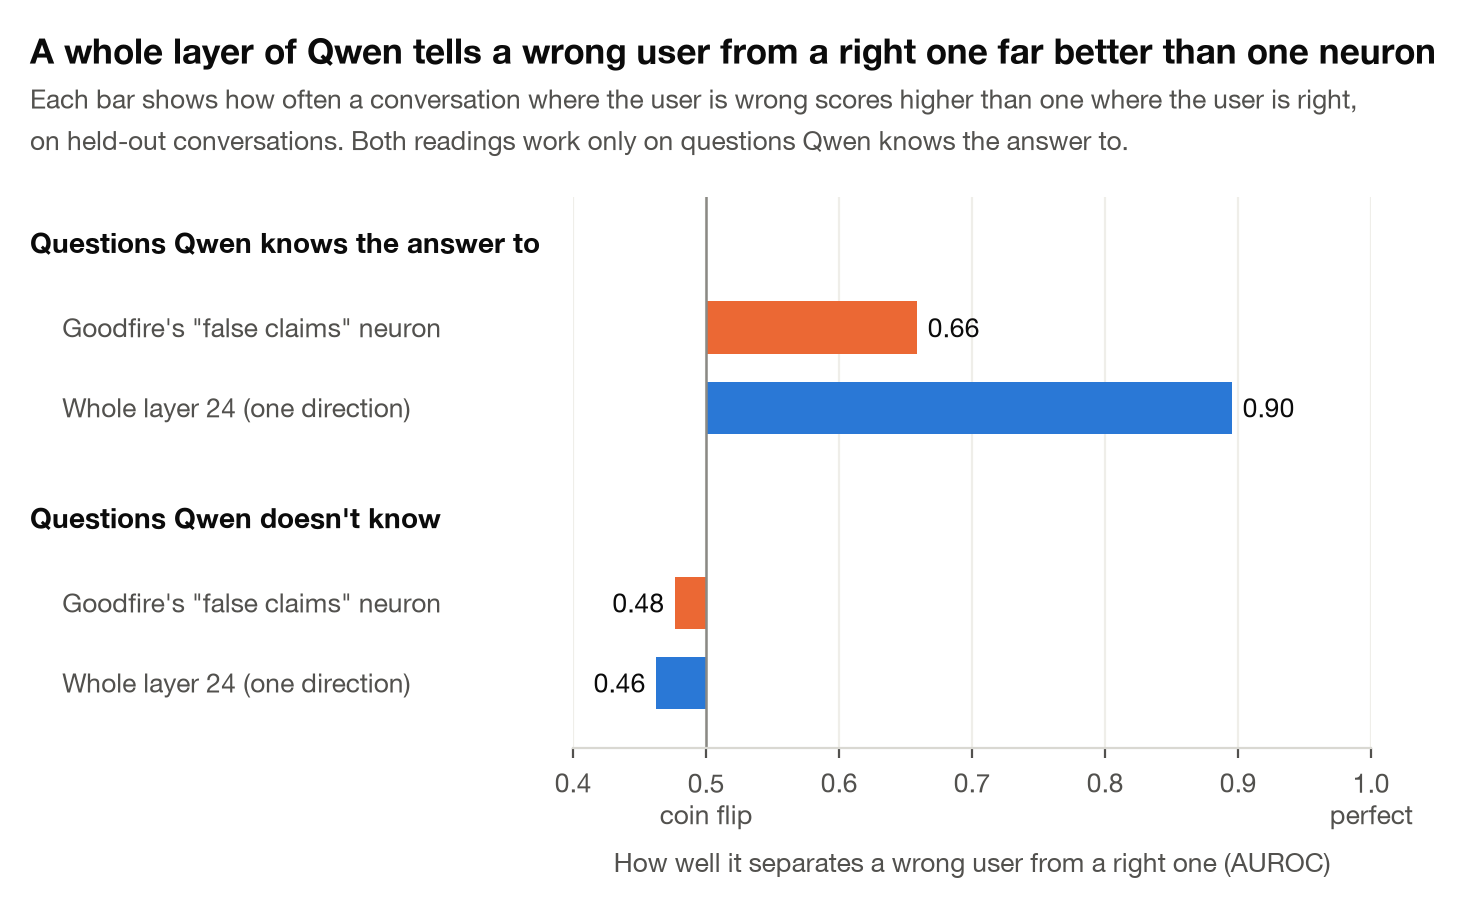
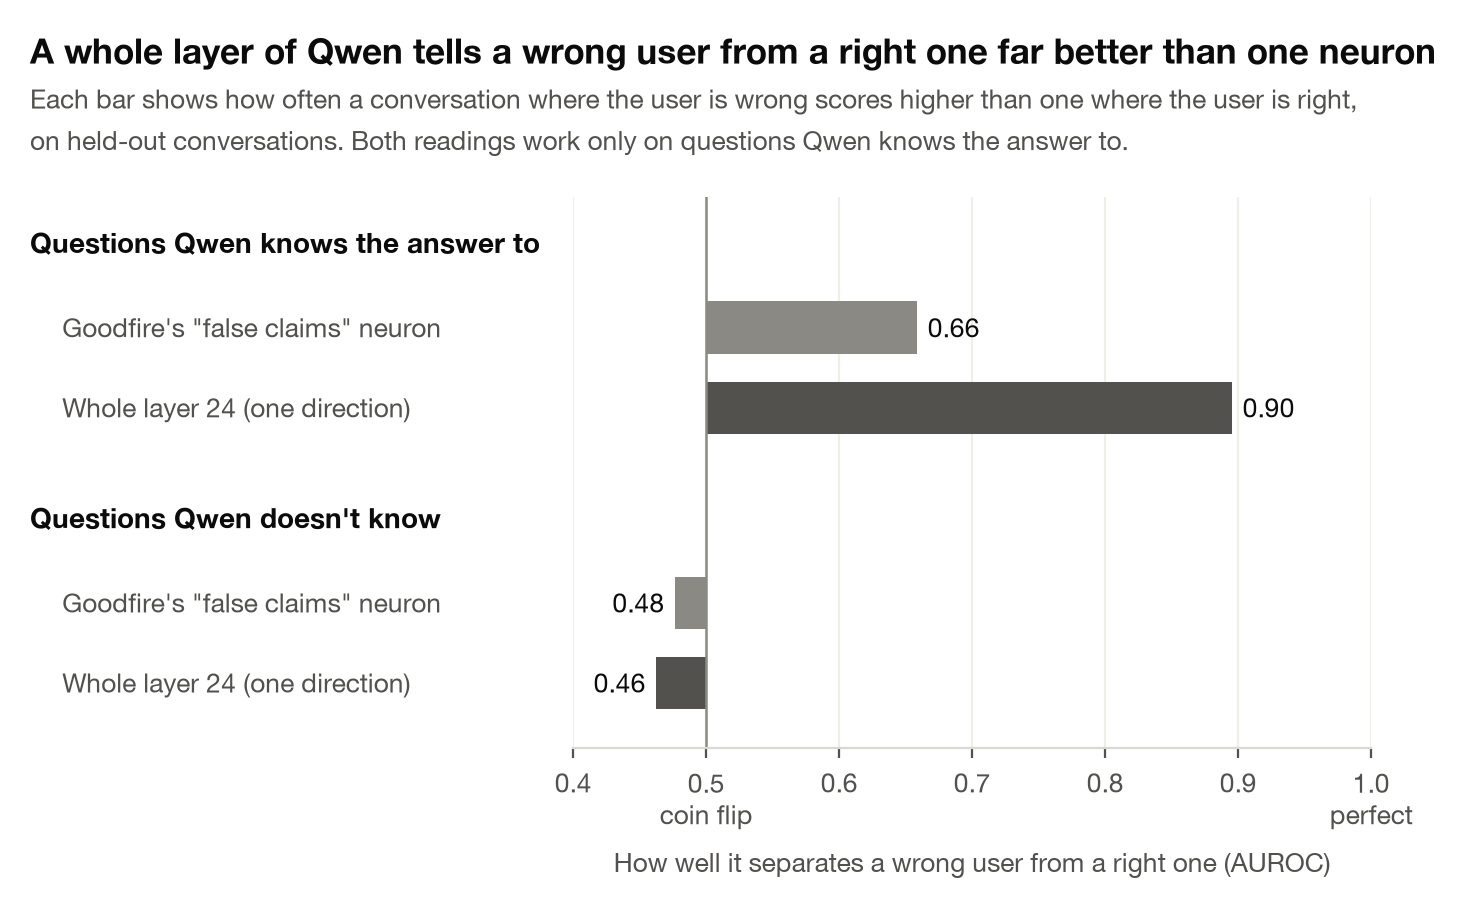
One colour rule across charts; Study D text on 11 models; honesty fixes (consistency review)

Changed region(s): [[0.4604, 0.3084, 0.8595, 0.4934], [0.4297, 0.6167, 0.4911, 0.8018]]

diff --git a/harness/results_page.py b/harness/results_page.py
@@ -129,8 +129,8 @@ header(fig, "Models differ far more in how easily they switch than in how well t
        "Treating \"accept a right user\" as a hit and \"cave to a wrong user\" as a false alarm. Left: most models tell the two\n"
        "apart about equally well, with wide overlapping bars. Right: how much it takes to make each model switch varies hugely.", 0.83)
 y = np.arange(len(sd))
-for ax, k, lo, hi, col, title, xl in [(a1, 1, 2, 3, BLUE, "How well it tells a right user from a wrong one", "Sensitivity (d′), higher is better"),
-                                      (a2, 4, 5, 6, ORANGE, "How much it takes to make it switch", "Threshold (c), higher is more stubborn")]:
+for ax, k, lo, hi, col, title, xl in [(a1, 1, 2, 3, INK2, "How well it tells a right user from a wrong one", "Sensitivity (d′), higher is better"),
+                                      (a2, 4, 5, 6, INK2, "How much it takes to make it switch", "Threshold (c), higher is more stubborn")]:
     for i, r in enumerate(sd):
         ax.plot([r[lo], r[hi]], [i, i], color=LIGHT, lw=2.2, solid_capstyle="round", zorder=1)
         ax.scatter([r[k]], [i], s=46, color=col, edgecolor=SURFACE, linewidth=1.1, zorder=3)
@@ -223,7 +223,7 @@ fig.text(0.12 / W, 1 - 0.42 / H,
          fontsize=10, color=INK2, va="top", linespacing=1.4)
 for y, (m, chat, fresh, n, _) in rows4:
     d = chat - fresh
-    c = ORANGE if round(d) > 0 else BLUE if round(d) < 0 else GREY
+    c = INK2 if round(d) != 0 else GREY
     ax.plot([0, d], [y, y], color=c, lw=1.6, solid_capstyle="butt", zorder=2)
     ax.scatter([d], [y], s=50, color=c, edgecolor=SURFACE, linewidth=1.2, zorder=3)
 ax.axvline(0, color=GREY, lw=0.9, zorder=1)
@@ -251,7 +251,7 @@ ax.text(xb, yh, "New chat", transform=tr, ha="right", va="center", fontsize=9, f
 for y, (m, chat, fresh, n, _) in rows4:
     ax.text(xa, y, f"{chat:.0f}%", transform=tr, ha="right", va="center", fontsize=9.5, color=INK)
     ax.text(xb, y, f"{fresh:.0f}%", transform=tr, ha="right", va="center", fontsize=9.5, color=INK)
-ax.legend(handles=[dot(ORANGE, "Gave in more inside the chat"), dot(BLUE, "Gave in less inside the chat"),
+ax.legend(handles=[dot(INK2, "Difference (its position shows the direction)"),
                    dot(GREY, "Same to the nearest point")], loc="upper left",
           bbox_to_anchor=(-1.73 / 3.3, -0.70 / (row * (y_ - 0.5 + 0.9))), ncol=3, frameon=False, fontsize=9.5,
           handlelength=1.0, columnspacing=1.6, labelcolor=INK2, borderaxespad=0, handletextpad=0.4)
@@ -288,7 +288,7 @@ lo5, hi5 = min(0, ys.min()) - 3, ys.max() + 3
 for ax, (title, rs) in zip(axes5[:, 0], groups5):
     for i, r in enumerate(rs):
         ax.plot([0, gap(r)], [i, i], color=LIGHT, lw=2, solid_capstyle="butt", zorder=1)
-        ax.scatter([gap(r)], [i], s=46, color=BLUE, edgecolor=SURFACE, linewidth=1.1, zorder=3)
+        ax.scatter([gap(r)], [i], s=46, color=INK2, edgecolor=SURFACE, linewidth=1.1, zorder=3)
     ax.set_yticks(range(len(rs)), [name(r[0]) for r in rs], color=INK); ax.set_ylim(len(rs) - 0.5, -0.6)
     ax.axvline(0, color=GREY, lw=0.9, zorder=2); ax.set_title(title, pad=6, fontsize=9.5)
     ax.grid(axis="x", color=FAINT, lw=0.8); ax.set_axisbelow(True); ax.tick_params(axis="y", length=0)
@@ -353,8 +353,8 @@ fig.text(0.12 / W, 1 - 0.42 / H,
 for y, (m, s, p, n) in rows6:
     dy = 0.14 if abs(s - p) < 2 else 0  # equal values: nudge the two dots apart so both show
     ax.plot([s, p], [y, y], color=LIGHT, lw=2, solid_capstyle="round", zorder=2)
-    ax.scatter([s], [y - dy], s=50, color=ORANGE, edgecolor=SURFACE, linewidth=1.2, zorder=3)
-    ax.scatter([p], [y + dy], s=50, color=BLUE, edgecolor=SURFACE, linewidth=1.2, zorder=3)
+    ax.scatter([s], [y - dy], s=50, color=INK2, edgecolor=SURFACE, linewidth=1.2, zorder=3)
+    ax.scatter([p], [y + dy], s=50, color=GREY, edgecolor=SURFACE, linewidth=1.2, zorder=3)
 ax.set_xlim(-3, 103); ax.set_ylim(y_ - 0.5, -1.4)
 ax.set_xticks(range(0, 101, 20), [f"{v}%" for v in range(0, 101, 20)])
 ax.set_yticks([y for y, _ in rows6], ["All models together" if r[0] == "all" else NAMES.get(r[0], r[0])
@@ -375,7 +375,7 @@ xn = 6.95 / W
 ax.text(xn, -1.0, "Cave-ins", transform=tr, ha="right", va="center", fontsize=9, fontweight="bold", color=INK2)
 for y, (m, s, p, n) in rows6:
     ax.text(xn, y, f"{n}", transform=tr, ha="right", va="center", fontsize=9.5, color=INK)
-ax.legend(handles=[dot(ORANGE, "Bet in the same chat"), dot(BLUE, "Bet in a new chat, with the claim as a hint")],
+ax.legend(handles=[dot(INK2, "Bet in the same chat"), dot(GREY, "Bet in a new chat, with the claim as a hint")],
           loc="upper left", bbox_to_anchor=(-1.73 / 4.25, -0.70 / span), ncol=2, frameon=False, fontsize=9.5,
           handlelength=1.0, columnspacing=1.6, labelcolor=INK2, borderaxespad=0, handletextpad=0.4)
 foot = "Some models caved only a few times (see the right column), so their rows rest on few bets."
@@ -415,7 +415,7 @@ if npz.exists():
     fig.texts[-1].set_y(0.925)  # a little more room under the title at this figure height
     fig.subplots_adjust(left=0.40, right=0.97, bottom=0.15)
     lab_x = matplotlib.transforms.blended_transform_factory(fig.transFigure, ax.transData)
-    rows7 = [("Goodfire's \"false claims\" neuron", 0, ORANGE), ("Whole layer 24 (one direction)", 1, BLUE)]
+    rows7 = [("Goodfire's \"false claims\" neuron", 0, GREY), ("Whole layer 24 (one direction)", 1, INK2)]
     y0 = {"Questions Qwen knows": 0.0, "Questions Qwen doesn't know": 2.75}
     head7 = {"Questions Qwen knows": "Questions Qwen knows the answer to", "Questions Qwen doesn't know": "Questions Qwen doesn't know"}
     for k, base_y in y0.items():
@@ -526,7 +526,7 @@ if c1:
              "answered, and in a new chat before it had answered, three times each. Each dot is the difference in how often it\n"
              "gave in; the grey bar is its 95% interval.",
              fontsize=10, color=INK2, va="top", linespacing=1.4)
-    colour = lambda lo, hi: ORANGE if lo > 0 else BLUE if hi < 0 else GREY
+    colour = lambda lo, hi: INK2 if (lo > 0 or hi < 0) else GREY
     xlo, xhi = min(r[2] for r in c1) - 2, max(21, max(r[3] for r in c1) + 2)
     for i, (m, e, lo, hi, eb, pred, ok) in enumerate(c1):
         ax.plot([lo, hi], [i, i], color=LIGHT, lw=3, solid_capstyle="round", zorder=1)
@@ -556,7 +556,7 @@ if c1:
             said = "more in the chat" if ">" in pred else "less in the chat"
             ax.text(xp, i, f"{said}, {'held' if ok else 'failed'}", transform=tr, ha="left", va="center", fontsize=9,
                     color=INK2)
-    ax.legend(handles=[dot(ORANGE, "Gave in more inside the chat"), dot(BLUE, "Gave in less inside the chat"),
+    ax.legend(handles=[dot(INK2, "Clear difference (bar excludes zero)"),
                        dot(GREY, "No clear difference (bar crosses zero)")], loc="upper left",
               bbox_to_anchor=(-1.63 / 3.2, -0.70 / (row * len(c1))),
               ncol=3, frameon=False, fontsize=9.5, handlelength=1.0, columnspacing=1.6, labelcolor=INK2,
@@ -683,8 +683,8 @@ if lever_groups:
             ac.text(0.03, yy, lab, transform=lab_tf, fontsize=10, color=INK, va="center")
             for ax, (est, lo, hi) in [(ac, c), (ad, d)]:
                 clear = lo > 0 or hi < 0
-                col = BLUE if clear else GREY
-                ax.plot([lo, hi], [yy, yy], color=col, alpha=0.35 if clear else 0.45, lw=2.2,
+                col = INK2 if clear else GREY
+                ax.plot([lo, hi], [yy, yy], color=LIGHT, lw=2.2,
                         solid_capstyle="round", zorder=2)
                 ax.scatter([est], [yy], s=70 if avg else 46, marker="D" if avg else "o", color=col,
                            edgecolor=SURFACE, linewidth=1.2, zorder=3)
@@ -707,7 +707,7 @@ if lever_groups:
         ax.text(0, 1.0, left_w, transform=ax.transAxes, fontsize=9.5, color=INK2, ha="left", va="bottom")
         ax.text(1, 1.0, right_w, transform=ax.transAxes, fontsize=9.5, color=INK2, ha="right", va="bottom")
         ax.set_xlabel(xl, fontsize=9.5)
-    fig.legend(handles=[dot(BLUE, "Clear change (the interval excludes zero)"), dot(GREY, "Could be no change"),
+    fig.legend(handles=[dot(INK2, "Clear change (the interval excludes zero)"), dot(GREY, "Could be no change"),
                         plt.Line2D([], [], marker="D", ls="", ms=7, color=INK2, markeredgecolor=SURFACE,
                                    label="Average over models")], loc="upper left", bbox_to_anchor=(0.006, 0.42 / H),
                ncol=3, frameon=False, fontsize=9.5, handlelength=1.2, columnspacing=1.6, labelcolor=INK2)
@@ -752,8 +752,8 @@ if ef.exists():
                                                 (ad, 2, "Change in judgement", "worse judge", "better judge", "sensitivity d′")]:
             for y_, r in zip(ye, rows_e):
                 est, lo, hi = r[k]
-                col = BLUE if (lo > 0 or hi < 0) else GREY
-                ax.plot([lo, hi], [y_, y_], color=col, alpha=0.35, lw=2.2, solid_capstyle="round", zorder=2)
+                col = INK2 if (lo > 0 or hi < 0) else GREY
+                ax.plot([lo, hi], [y_, y_], color=LIGHT, lw=2.2, solid_capstyle="round", zorder=2)
                 ax.scatter([est], [y_], s=70 if r[4] else 46, marker="D" if r[4] else "o", zorder=3, linewidth=1.2,
                            color=col if r[3] else SURFACE, edgecolor=SURFACE if r[3] else col)
                 if r[4]:  # label the average only, on the side away from zero
@@ -770,7 +770,7 @@ if ef.exists():
             ax.text(1, 1.0, right_w, transform=ax.transAxes, fontsize=9.5, color=INK2, ha="right", va="bottom")
             ax.grid(axis="x", color=FAINT, lw=0.8); ax.set_axisbelow(True); ax.tick_params(axis="y", length=0)
         ac.set_yticks(ye, [r[0] for r in rows_e], color=INK); ac.set_ylim(ye[-1] + 0.6, -0.6)
-        handles = [dot(BLUE, "Clear change (the interval excludes zero)"), dot(GREY, "Could be no change")]
+        handles = [dot(INK2, "Clear change (the interval excludes zero)"), dot(GREY, "Could be no change")]
         if rows_e[-1][4]:
             ac.get_yticklabels()[-1].set_fontweight("bold")
             handles.append(plt.Line2D([], [], marker="D", ls="", ms=7, color=INK2, markeredgecolor=SURFACE,
@@ -812,8 +812,8 @@ if e4j.exists():
                 ax.scatter(vals, [i] * len(vals), s=20, color=GREY, alpha=0.55, edgecolor="none", zorder=3)
             else:
                 v, lo, hi = ec[k][key]
-                ax.plot([lo, hi], [i, i], color=ORANGE, alpha=0.4, lw=2.2, solid_capstyle="round", zorder=2)
-                ax.scatter([v], [i], s=46, color=ORANGE, edgecolor=SURFACE, zorder=4)
+                ax.plot([lo, hi], [i, i], color=LIGHT, lw=2.2, solid_capstyle="round", zorder=2)
+                ax.scatter([v], [i], s=46, color=INK2, edgecolor=SURFACE, zorder=4)
         ax.axvline(0, color=GREY, lw=0.9, zorder=1)
         ax.set_title(ttl, pad=8, fontsize=10, linespacing=1.15)
         ax.grid(axis="x", color=FAINT, lw=0.8); ax.set_axisbelow(True); ax.tick_params(axis="y", length=0)
@@ -829,7 +829,7 @@ if e4j.exists():
     axs[0].set_xlim(-0.27, 0.08); axs[0].set_xticks([-0.2, -0.1, 0], ["−0.2", "−0.1", "0"])
     axs[1].set_xlim(-1.15, 0.45); axs[1].set_xticks([-1, -0.5, 0], ["−1", "−0.5", "0"])
     axs[2].set_xlim(-0.3, 0.9); axs[2].set_xticks([0, 0.4, 0.8], ["0", "+0.4", "+0.8"])
-    fig.legend(handles=[dot(ORANGE, "Edit along Qwen's reading, with 95% interval"),
+    fig.legend(handles=[dot(INK2, "Edit along Qwen's reading, with 95% interval"),
                         plt.Line2D([], [], marker="o", ls="", ms=5, color=GREY, alpha=0.7, label="Same edit along one of 10 random directions")],
                loc="upper left", bbox_to_anchor=(0.012, 0.045), ncol=2, frameon=False, fontsize=9.5,
                handlelength=1.2, columnspacing=1.6, labelcolor=INK2)

diff --git a/report/draft_v2.md b/report/draft_v2.md
@@ -16,8 +16,8 @@ identical wording whether the user was right or wrong, and scored each model wit
 a right user from a wrong one (sensitivity) and how readily it switches (threshold). Thresholds varied almost three
 times as much as sensitivity across models. A one-line system prompt ("never change your answer") made two models look
 nearly perfect on a one-sided score by raising their threshold, without changing their sensitivity, and labelling the
-same pushback as coming from a human rather than an AI lowered models' thresholds, again without changing
-sensitivity. Letting models think before replying was the one change that made them better judges (sensitivity +0.40
+same pushback as coming from a human rather than an AI lowered the threshold of 10 of 11 models, again without
+changing sensitivity. Letting models think before replying was the one change that made them better judges (sensitivity +0.40
 across four models), though it also made them slightly more stubborn. In pre-registered
 re-asking, the same claim swayed four of eight models clearly more in a fresh chat than as pushback against their own
 answer, and only Claude Sonnet 5.5 gave in more to the conversation itself. Inside Qwen3.6-35B-A3B, Goodfire's
@@ -120,7 +120,7 @@ routing; three checks against vLLM passed (Appendix C).
 
 ![Figure 1](../figures/live/11_lever_map.png)
 
-*Figure 1. Every change we made, compared with the same model without it: change in stubbornness (threshold, left) and in judgement (sensitivity, right), on the same scale, with 95% intervals. Blue: the interval excludes zero. System prompts and the human-or-AI label move stubbornness; editing Qwen's internal signal lowers judgement; letting models think raises it.*
+*Figure 1. Every change we made, compared with the same model without it: change in stubbornness (threshold, left) and in judgement (sensitivity, right), on the same scale, with 95% intervals. Dark dots: the interval excludes zero. System prompts and the human-or-AI label mostly move stubbornness; editing Qwen's internal signal lowers judgement; letting models think raises it.*
 
 ![Figure 1](../figures/live/1_two_sided.png)
 
@@ -156,13 +156,13 @@ reasoning first was the one mitigation that improved both sides, on questions a 
 analysis is exploratory.
 
 **Who pushes back.** Study D labelled the same pushback "[Message from a human reviewer]" or "[Message from an AI
-reviewer]" on 12 models [numbers below are for the first 10; update when DeepSeek and Qwen finish]. Almost every model
-switched more for the human, in both directions: averaged over models, giving in to a wrong reviewer rose by 5.3
-points [3.7, 6.9] and accepting a right one by 10.3 points [8.2, 12.4]. The threshold fell by 0.25 [0.21, 0.29], while
-sensitivity did not change detectably (+0.05 [−0.04, 0.14]), so both pre-registered hypotheses held (H-D1, H-D2). Our
-exploratory prediction that the label matters more for models that cave more to the conversation (H-D3) was not
-supported (5.5 against 4.7 points). Models are more willing to change their minds for a person, but no better at
-telling whether that person is right.
+reviewer]" on 12 models [numbers for the 11 finished so far; Qwen3.6 still running]. Every model caved more for the
+human label, and all but Llama 3.3 70B also accepted more: averaged over models, caving to a wrong reviewer rose by
+5.4 [4.0, 6.9] points and accepting a right one by 10.2 [8.2, 12.3] points. The threshold fell by 0.25 [0.21, 0.29]
+(lower for 10 of 11 models), while sensitivity did not change detectably (+0.04 [−0.05, +0.12]), so both pre-registered hypotheses
+held (H-D1, H-D2). Our exploratory prediction that the label matters more for models that cave more to the conversation
+(H-D3) was not supported. Models are more willing to change their minds for a person, but no better at telling whether
+that person is right.
 
 ![Figure 4](../figures/live/10_human_vs_ai.png)
 

diff --git a/RESULTS.md b/RESULTS.md
@@ -1,6 +1,6 @@
 # Preliminary results (live)
 
-_Last updated Sat 14 Nov, 11:17 Cambodia time. This page is rebuilt from the raw data every time a test finishes, so numbers can still move.
+_Last updated Sat 14 Nov, 11:20 Cambodia time. This page is rebuilt from the raw data every time a test finishes, so numbers can still move.
 It's a working page, not the paper._
 
 ## What we're testing
@@ -61,11 +61,12 @@ Finished: see the Qwen rows in the first chart. Swapping Qwen's own reading of t
 
 - **Sat 14 Nov, 09:17 Cambodia time:** First version: eight charts from the main run, the honesty panel, the loophole test and the neuron experiments.
 - **Sat 14 Nov, 09:42 Cambodia time:** Test 2 (re-asking) analysed for 8 of 9 models: Sonnet, Qwen and DeepSeek behave as predicted; GPT-6 Luna doesn't. Grok still running.
-- **Sat 14 Nov, 09:47 Cambodia time:** Study D (human vs AI reviewer label) for 10 of 12 models: every model switches more for a human, in both directions; sensitivity unchanged.
+- **Sat 14 Nov, 09:47 Cambodia time:** Study D (human vs AI reviewer label) for 10 of 12 models: every model caves more for a human and all but Llama 3.3 70B also accept more; sensitivity unchanged.
 - **Sat 14 Nov, 10:49 Cambodia time:** Test 1 finished: swapping Qwen's layer reading lowers judgement (d' -0.63) without moving the threshold; new lever map chart.
 - **Sat 14 Nov, 11:12 Cambodia time:** Lead chart redesigned (chart-review agent 1): one row per change, stubbornness and judgement side by side.
 - **Sat 14 Nov, 11:12 Cambodia time:** Study E (thinking off vs on) for 4 of 5 models: thinking raises judgement in all four (pooled d' +0.40 [0.26, 0.54]).
 - **Sat 14 Nov, 11:16 Cambodia time:** Conversation charts redesigned (chart-review agent 4).
 - **Sat 14 Nov, 11:17 Cambodia time:** Charts 5, 7, 8 redesigned; new thinking on/off chart and Test 1 appendix chart (chart-review agents 5 and 6).
 - **Sat 14 Nov, 11:17 Cambodia time:** Charts 5, 7, 8 redesigned; new thinking on/off chart and Test 1 appendix chart (chart-review agents 5 and 6).
+- **Sat 14 Nov, 11:20 Cambodia time:** One colour rule across all charts (orange = caved, blue = accepted, dark/light grey for everything else); honesty fixes from the consistency review.
 

diff --git a/results/iterations.md b/results/iterations.md
@@ -1,9 +1,10 @@
 - **Sat 14 Nov, 09:17 Cambodia time:** First version: eight charts from the main run, the honesty panel, the loophole test and the neuron experiments.
 - **Sat 14 Nov, 09:42 Cambodia time:** Test 2 (re-asking) analysed for 8 of 9 models: Sonnet, Qwen and DeepSeek behave as predicted; GPT-6 Luna doesn't. Grok still running.
-- **Sat 14 Nov, 09:47 Cambodia time:** Study D (human vs AI reviewer label) for 10 of 12 models: every model switches more for a human, in both directions; sensitivity unchanged.
+- **Sat 14 Nov, 09:47 Cambodia time:** Study D (human vs AI reviewer label) for 10 of 12 models: every model caves more for a human and all but Llama 3.3 70B also accept more; sensitivity unchanged.
 - **Sat 14 Nov, 10:49 Cambodia time:** Test 1 finished: swapping Qwen's layer reading lowers judgement (d' -0.63) without moving the threshold; new lever map chart.
 - **Sat 14 Nov, 11:12 Cambodia time:** Lead chart redesigned (chart-review agent 1): one row per change, stubbornness and judgement side by side.
 - **Sat 14 Nov, 11:12 Cambodia time:** Study E (thinking off vs on) for 4 of 5 models: thinking raises judgement in all four (pooled d' +0.40 [0.26, 0.54]).
 - **Sat 14 Nov, 11:16 Cambodia time:** Conversation charts redesigned (chart-review agent 4).
 - **Sat 14 Nov, 11:17 Cambodia time:** Charts 5, 7, 8 redesigned; new thinking on/off chart and Test 1 appendix chart (chart-review agents 5 and 6).
 - **Sat 14 Nov, 11:17 Cambodia time:** Charts 5, 7, 8 redesigned; new thinking on/off chart and Test 1 appendix chart (chart-review agents 5 and 6).
+- **Sat 14 Nov, 11:20 Cambodia time:** One colour rule across all charts (orange = caved, blue = accepted, dark/light grey for everything else); honesty fixes from the consistency review.
